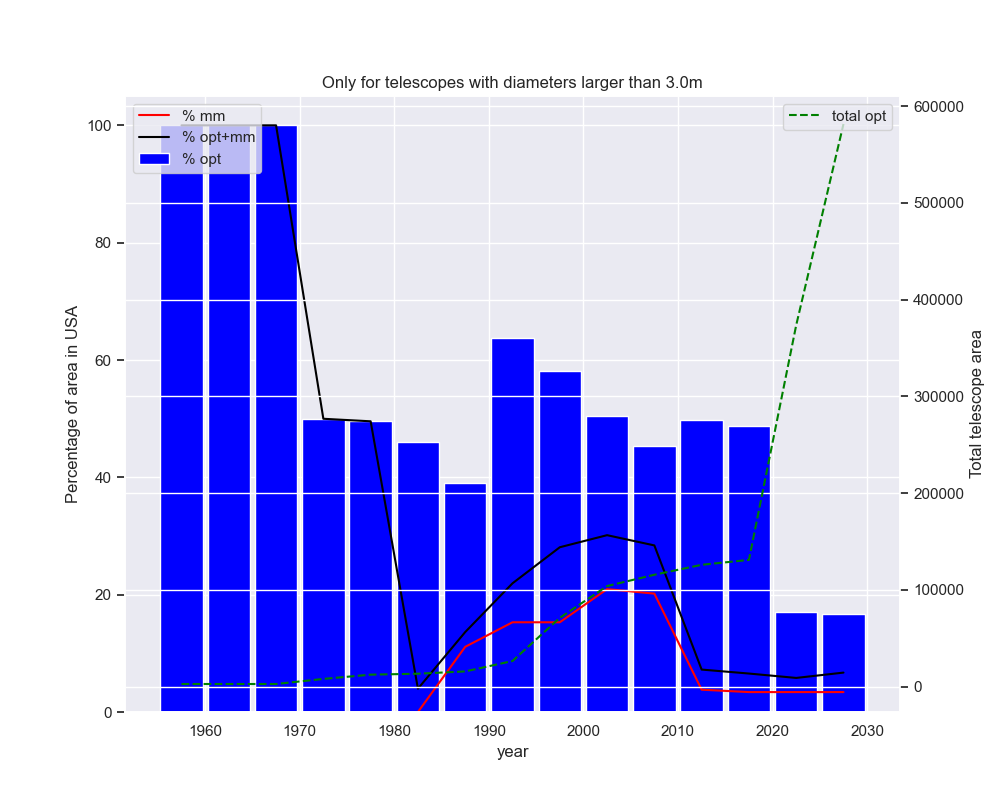
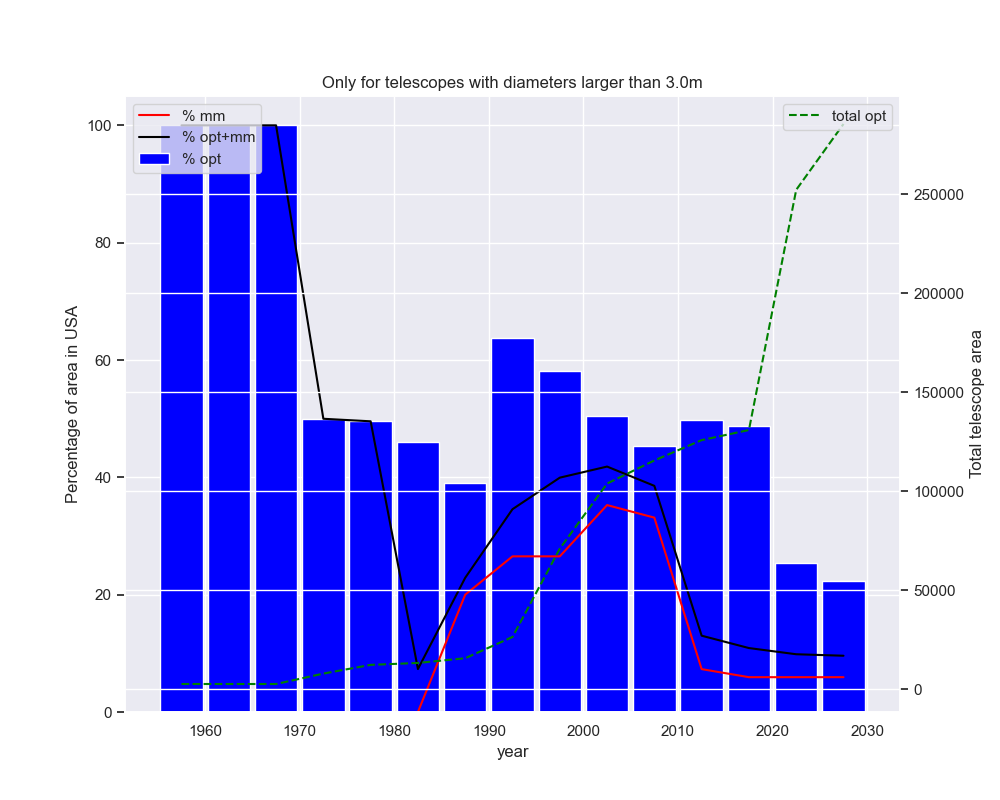
Fix pandas concatenation of future and mm telescopes

diff --git a/telstats.py b/telstats.py
@@ -70,14 +70,14 @@ class TelStats:
             print(tels_mm)
         if clear_list:
             self.all_telescopes = pd.DataFrame()
-        self.all_telescopes = pd.concat([self.all_telescopes, tels_mm])
+        self.all_telescopes = pd.concat([self.all_telescopes, tels_mm], ignore_index=True)
 
     def add_future_tels(self,
                         clear_list=False,
                         verbose=False,
                         ):
         future = {"Name": ["E-ELT", "GMT", "TMT"],
-                  self.col_built[0]: [2025, 2029, 2029],
+                  self.col_built[0]: [2025, 2029, 2033],
                   "area": [np.pi * (39.3 / 2) ** 2, 6 * np.pi * (8.4 / 2) ** 2, np.pi * 15 ** 2],
                   "Site": ["Chile", "Chile", "Spain"],
                   "range": ["optical"] * 3,
@@ -89,7 +89,7 @@ class TelStats:
             print(tels_fut)
         if clear_list:
             self.all_telescopes = pd.DataFrame()
-        self.all_telescopes = pd.concat([self.all_telescopes, tels_fut])
+        self.all_telescopes = pd.concat([self.all_telescopes, tels_fut], ignore_index=True)
 
     def add_wikipedia_tels(self,
                            largest_url='https://en.wikipedia.org/wiki/List_of_largest_optical_reflecting_telescopes',
@@ -217,7 +217,8 @@ class TelStats:
             ax.set_title(title.format(**{name: getattr(self, name)
                                          for name in re.findall('{(.+?)(?::.+)?}', title)}))
 
-    def get_cumulatives(self, bins, min_diameter=None, site_ref=None):
+    def get_cumulatives(self, bins,
+                        min_diameter=None, site_ref=None):
         """
         Get cumulative areas grouped by years binned
 
@@ -243,6 +244,8 @@ class TelStats:
         digs = [np.digitize(tels_sub[self.col_built[0]], bins, right=True) for tels_sub in tels_split]
         cums = [np.array([tels_sub['area'].loc[digs_sub <= i].sum() for i in range(len(bins))])
                 for tels_sub, digs_sub in zip(tels_split, digs)]
+
+        print(f"total opt {cums[0][-1]}, region {cums[2][-1]}")
 
         return cums
 
@@ -331,7 +334,7 @@ class TelStats:
             fracs = [[cums[2] / cums[0], cums[3] / cums[1], (cums[2] + cums[3]) / (cums[0] + cums[1])],
                      [cums[0], cums[1], cums[0]+cums[1]]]
         styles = [[opt_style, mm_style, both_style],
-                  [opt_total_style, mm_total_style], total_style]
+                  [opt_total_style, mm_total_style, total_style]]
         params = [[opt_params, mm_params, both_params],
                   [opt_total_params, mm_total_params, total_params]]
         defaults = {'color': [['blue', 'red', 'black'], ['green', 'yellow', 'pink']],
